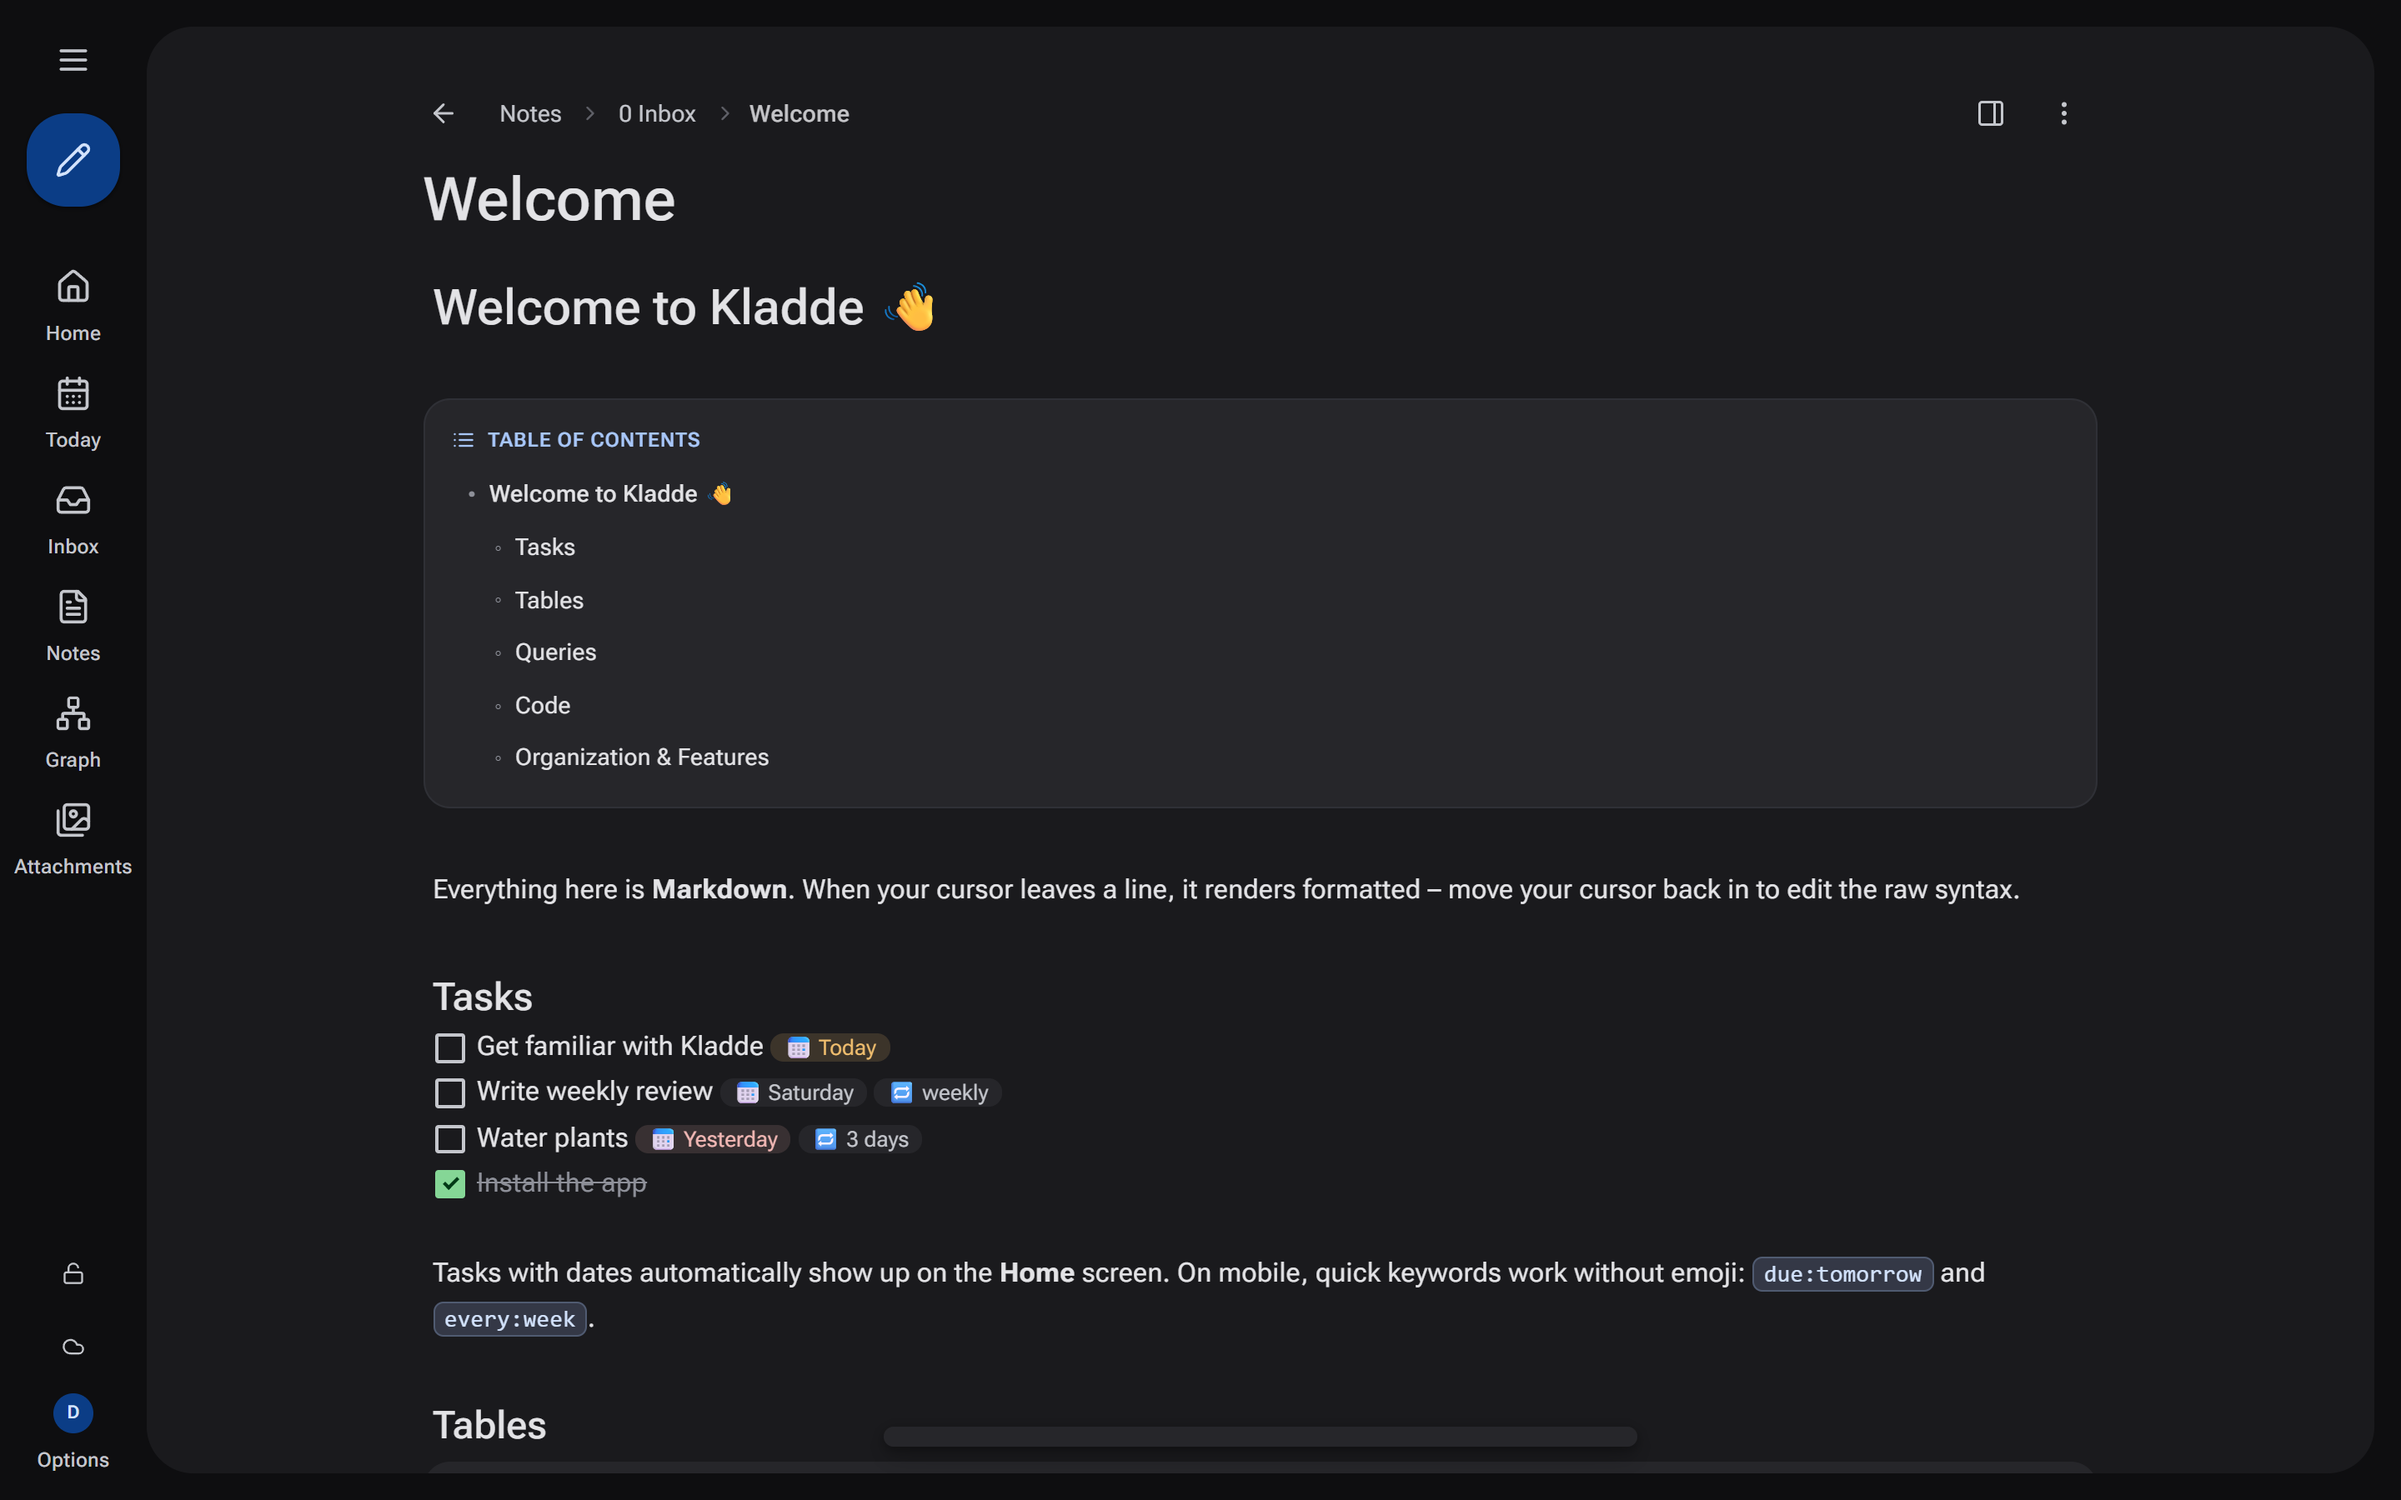
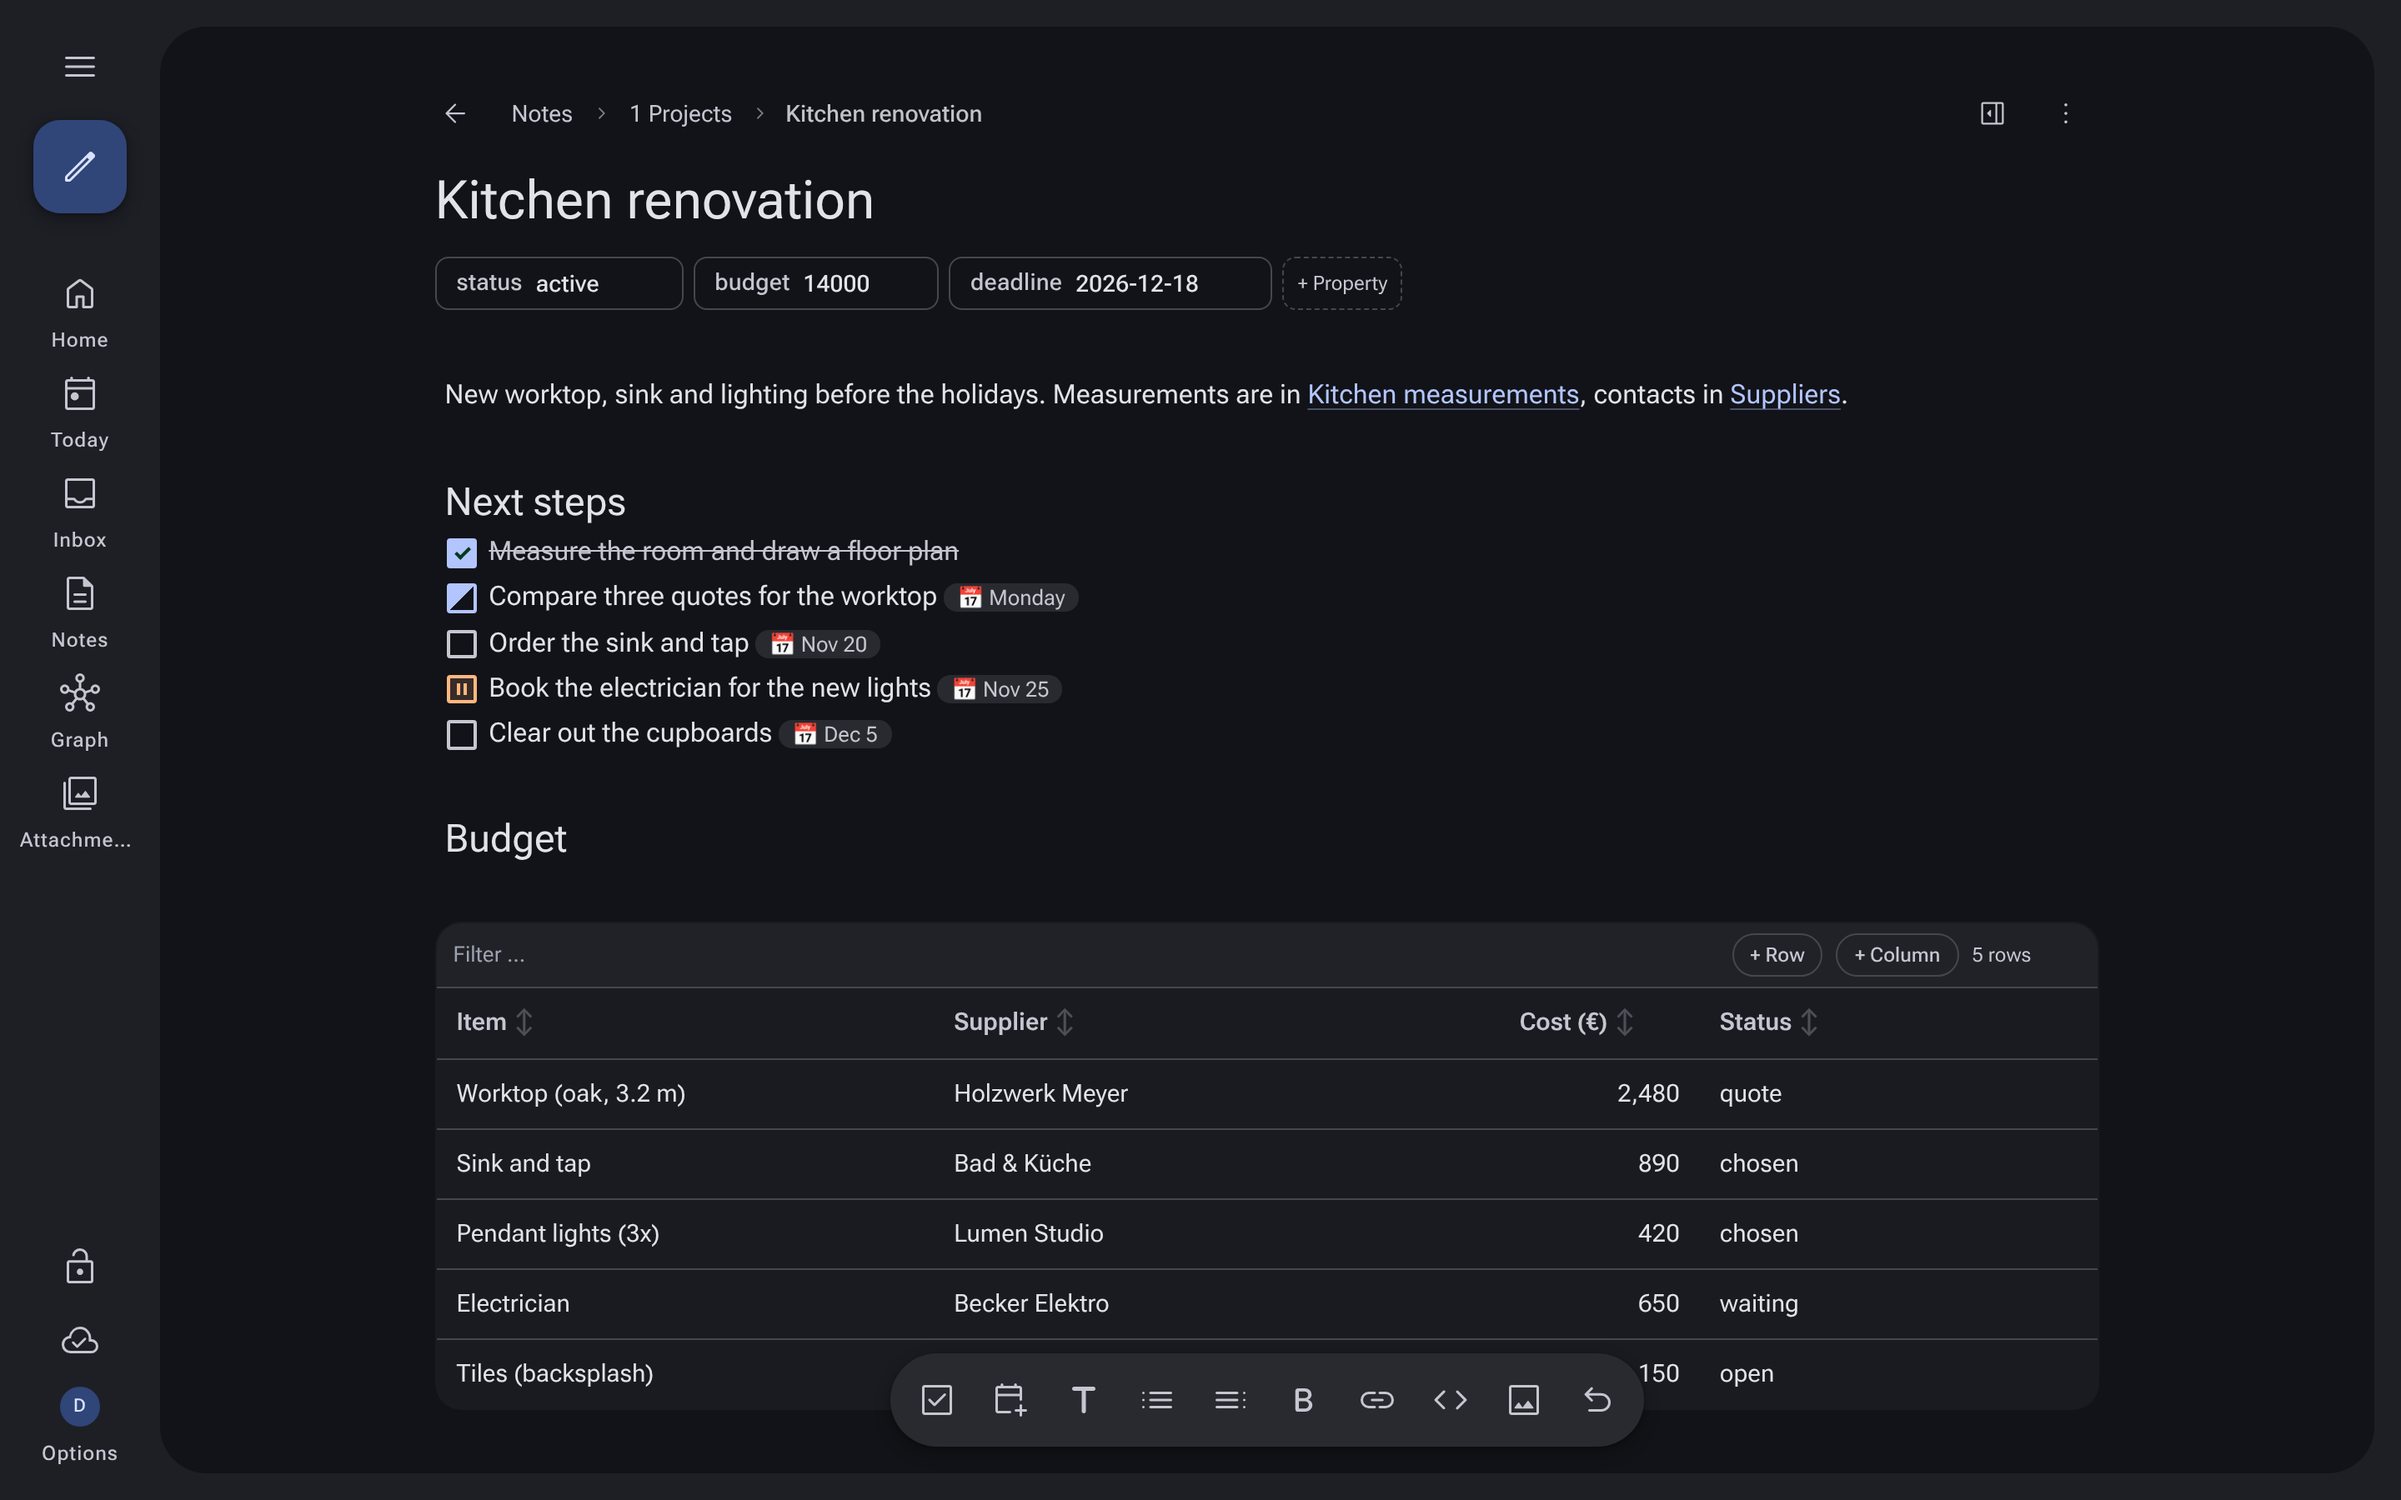
docs: refresh README screenshots for the Material 3 design
Replace the main screenshot with a project note in the new design and
add a small gallery: home screen (light), knowledge graph and two phone
views. Taken from a local instance with demo notes.

Claude-Session: https://claude.ai/code/session_01T4jFQ95fgdREBsbF6XcM5g

diff --git a/README.de.md b/README.de.md
@@ -4,7 +4,18 @@
 
 **Kladde** ist eine selbst gehostete Notiz-App für den Browser: Markdown mit Live-Vorschau, Aufgaben mit Fälligkeit und Wiederholung, Abfragen und Kanban-Boards über die eigenen Notizen – offline nutzbar auf Handy, iPad und Desktop, synchronisiert sobald wieder online. Zugang nur per Einladung, Anmeldung per **Passkey**, optional **mit GitLab** – oder mit Benutzername und Passwort, wo Passkeys nicht gehen (lokales Netz ohne HTTPS).
 
-![Kladde: Notiz mit Live-Vorschau, Inhaltsverzeichnis und Aufgaben mit Fälligkeit](docs/images/screenshot.png)
+![Kladde: Projektnotiz mit Eigenschaften, Aufgaben mit Status und Fälligkeit und einer bearbeitbaren Tabelle](docs/images/screenshot.png)
+
+<table>
+  <tr>
+    <td width="50%"><img src="docs/images/home-light.png" alt="Startseite im hellen Farbschema: Aufgaben nach überfällig, heute und demnächst"></td>
+    <td width="50%"><img src="docs/images/graph.png" alt="Wissensgraph der verlinkten Notizen"></td>
+  </tr>
+  <tr>
+    <td align="center"><img src="docs/images/phone-home.png" alt="Startseite auf dem Smartphone" width="260"></td>
+    <td align="center"><img src="docs/images/phone-note.png" alt="Notiz bearbeiten auf dem Smartphone" width="260"></td>
+  </tr>
+</table>
 
 > Eine *Kladde* ist das Notizbuch, in das erst einmal alles hineinkommt, bevor es ins Reine geschrieben wird.
 

diff --git a/README.md b/README.md
@@ -4,7 +4,18 @@
 
 **Kladde** is a self-hosted notes app for the browser: Markdown with live preview, tasks with due dates and recurrence, queries and Kanban boards across your own notes. It works offline on phone, iPad and desktop and syncs as soon as you are back online. Access is by invitation only, with **passkeys**, optionally **GitLab sign-in**, or username and password where passkeys are not an option (local network without HTTPS).
 
-![Kladde: a note with live Markdown preview, a table of contents and tasks with due dates](docs/images/screenshot.png)
+![Kladde: a project note with properties, tasks with status and due dates, and an editable table](docs/images/screenshot.png)
+
+<table>
+  <tr>
+    <td width="50%"><img src="docs/images/home-light.png" alt="Home screen in the light color scheme: tasks grouped by overdue, today and upcoming"></td>
+    <td width="50%"><img src="docs/images/graph.png" alt="Knowledge graph of linked notes"></td>
+  </tr>
+  <tr>
+    <td align="center"><img src="docs/images/phone-home.png" alt="Home screen on a phone" width="260"></td>
+    <td align="center"><img src="docs/images/phone-note.png" alt="Editing a note on a phone" width="260"></td>
+  </tr>
+</table>
 
 > A *Kladde* (German) is the notebook where everything goes first, before it is written up properly.
 
